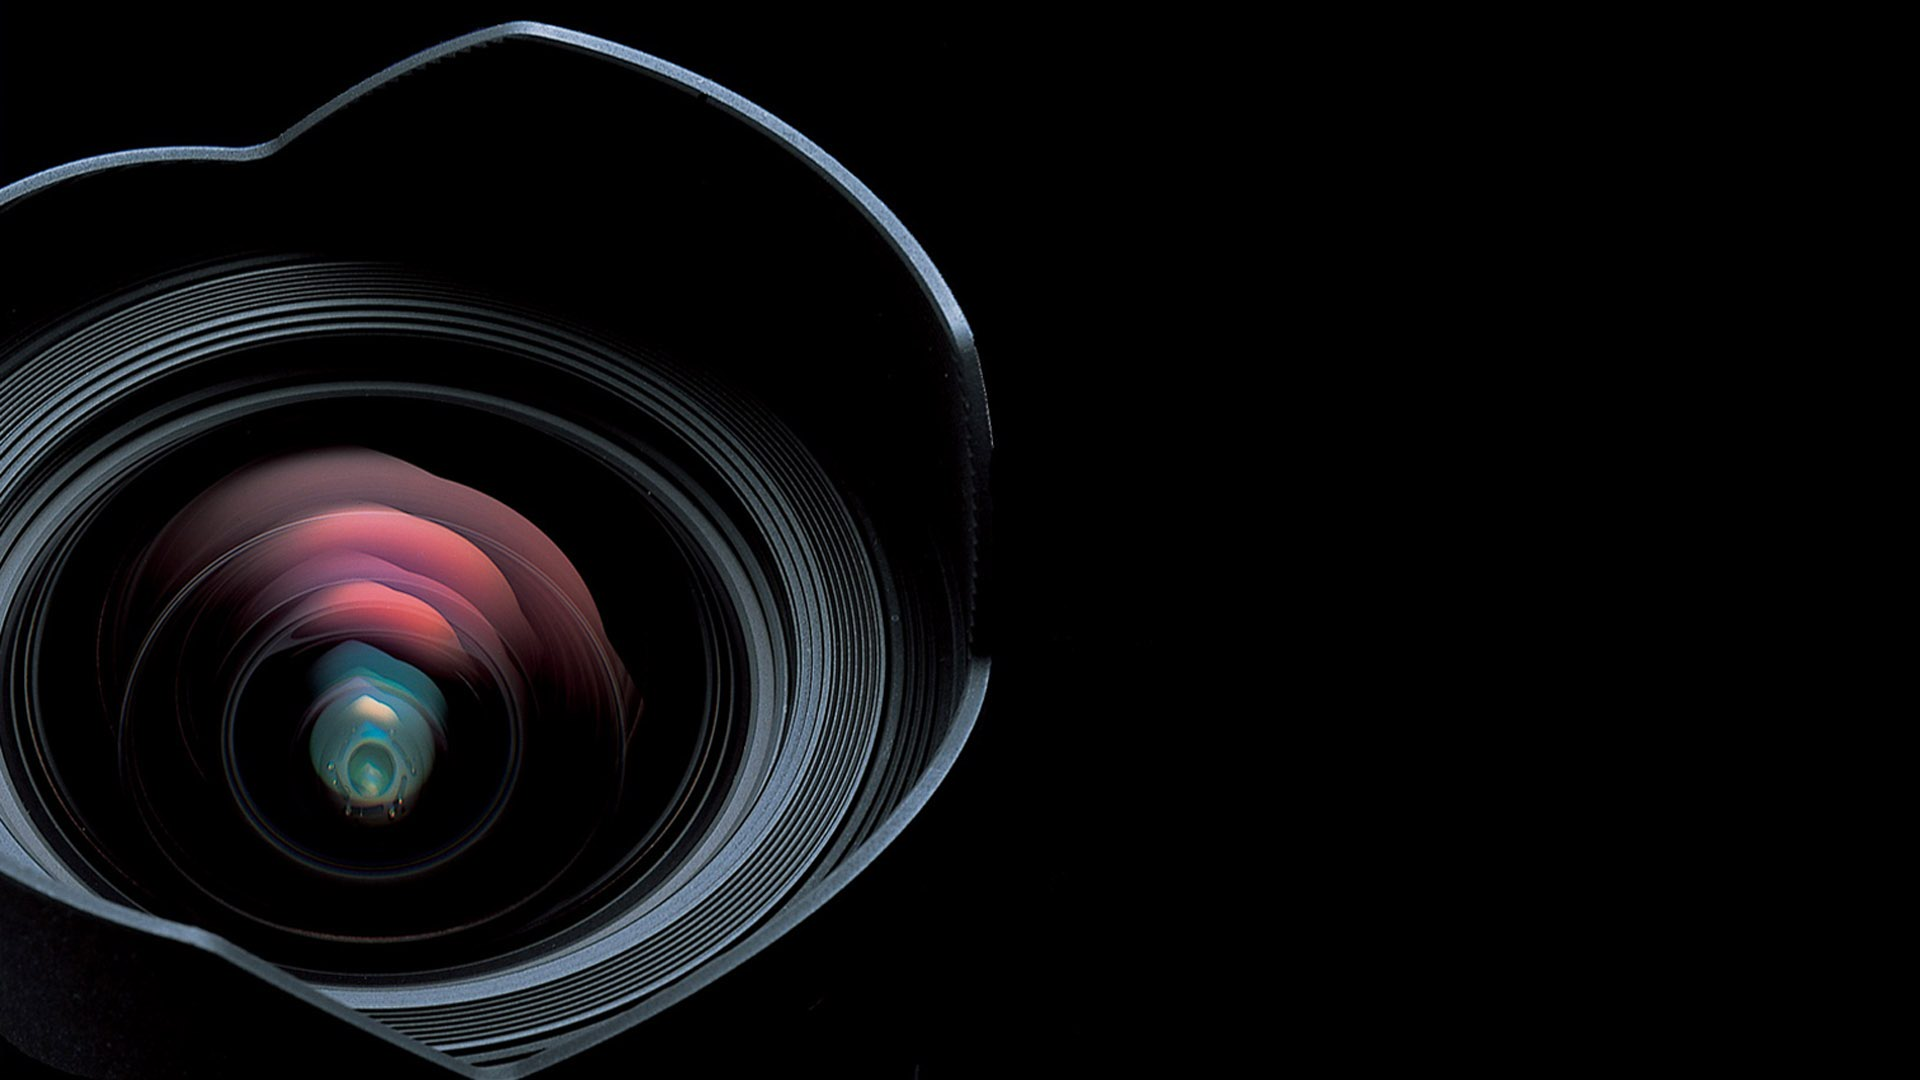
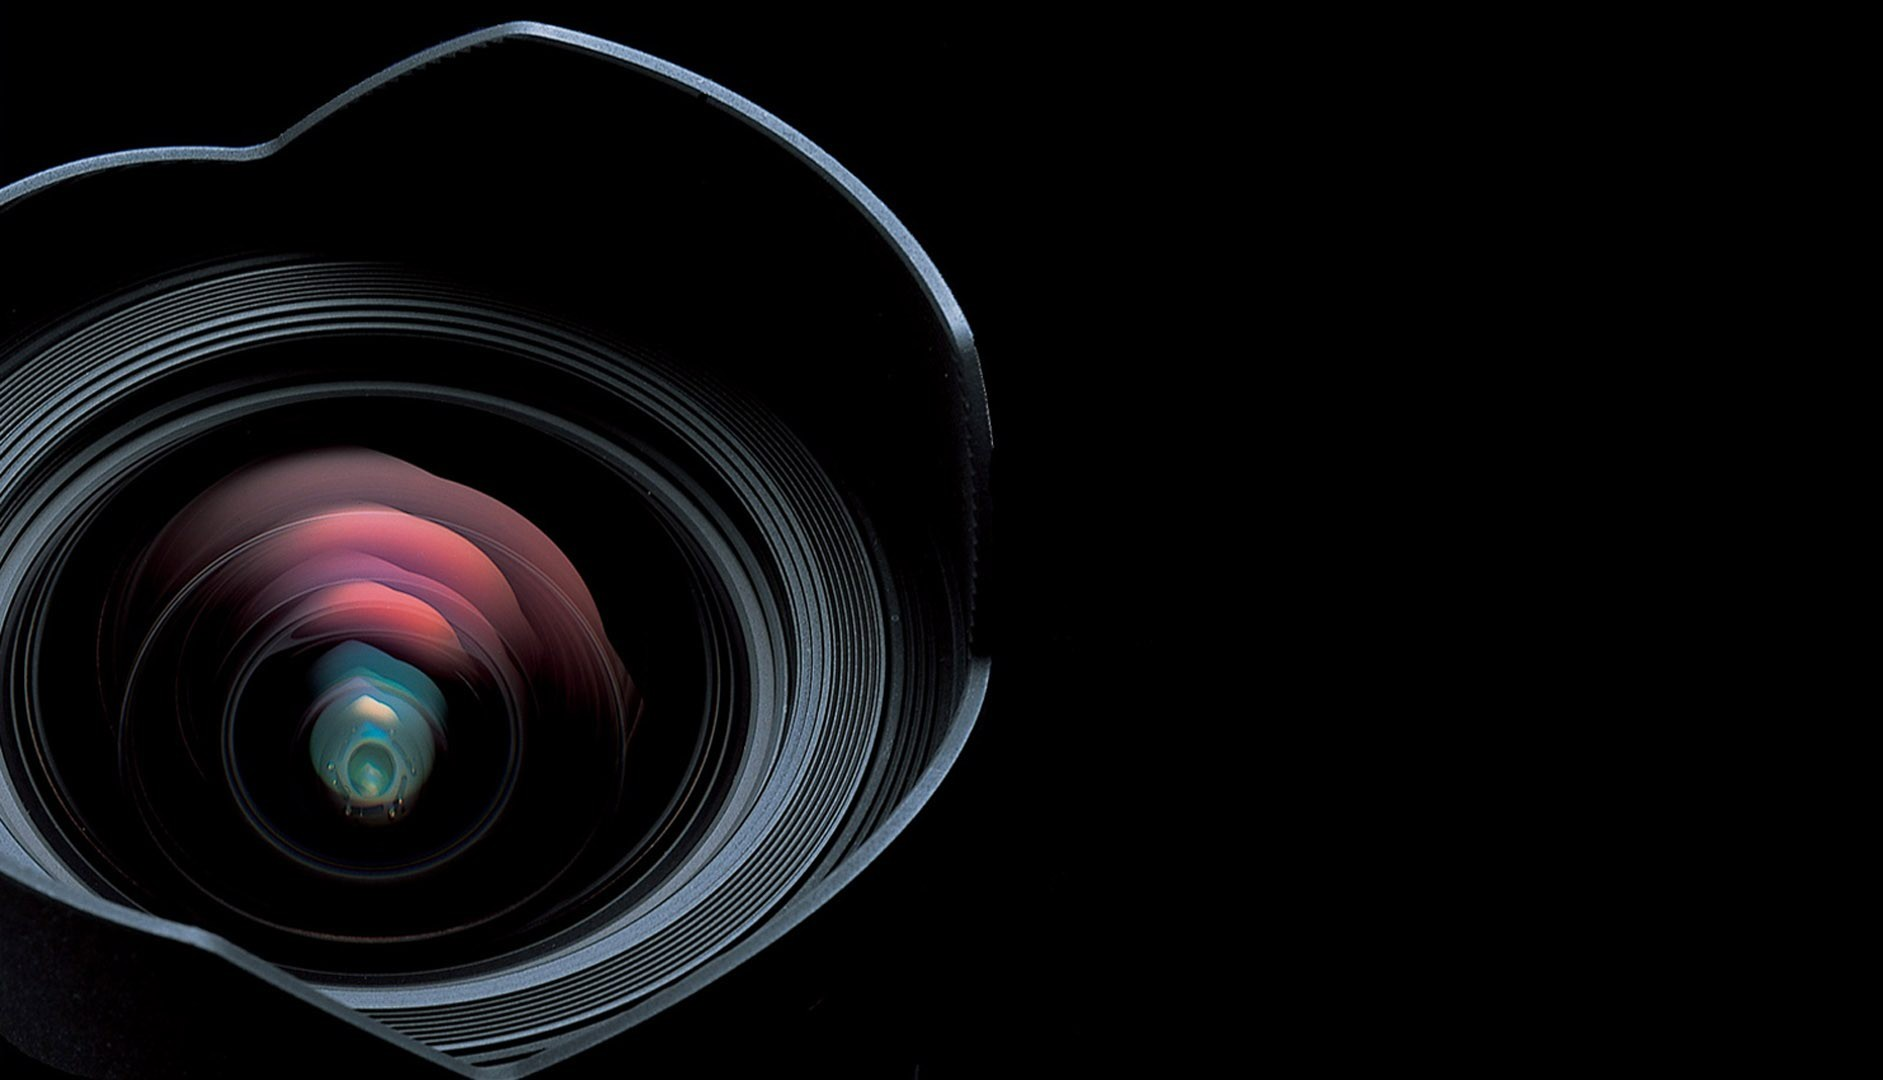
Add the contact page

diff --git a/contacto.html b/contacto.html
@@ -16,7 +16,7 @@
 </head>
 <body>
   <header>
-  <img src="/images/background90.jpg" style = "position: relative; width: 100%;">
+    <img src="images/background90.jpg" style = "position: relative; width: 100%;">
       <div class="hamburger-icon" id="icon">
         <div class="icon-1" id="a"></div>
         <div class="icon-2" id="b"></div>
@@ -37,9 +37,16 @@
       <div class="dark-blue" id="blue"></div>
   </header>
   <section class="content" id="content-footer"> 
+    <div class="container-estamos">
       <p>Estamos muy agradecidos por tu contacto y 
         apreciamos que estés en nuestro sitio web, 
         será genial conocer tu proyecto y trabajar juntos!</p>
+        <ul>
+          <li><b>Teléfono:</b> 1122334455</li>
+          <li><b>Email:</b> Ninety9@gmail.com</li>
+          <li><b>Ubicación:</b> Buenos Aires, Argentina</li>
+        </ul>
+    </div>
         <div id="container-form">
           <h2>Contacto</h2>
           <input type="text" placeholder="Nombre y apellido">

diff --git a/sass/styles.css b/sass/styles.css
@@ -330,9 +330,37 @@ nav.show {
   -webkit-box-sizing: border-box;
           box-sizing: border-box;
   font-size: 19px;
+  background: #161616;
+  border: 1px solid #ffffff;
 }
 
 #container-form button {
   font-size: 19px;
+  background: #161616;
+  border: 1px solid #ffffff;
+  color: #ffffff;
+}
+
+.container-estamos {
+  text-align: justify;
+}
+
+.container-estamos li {
+  text-decoration: none;
+  list-style: none;
+}
+
+.container-estamos ul {
+  display: -webkit-box;
+  display: -ms-flexbox;
+  display: flex;
+  -webkit-box-orient: vertical;
+  -webkit-box-direction: normal;
+      -ms-flex-direction: column;
+          flex-direction: column;
+  text-align: left;
+  font-size: 25px;
+  color: white;
+  padding: 0;
 }
 /*# sourceMappingURL=styles.css.map */

diff --git a/sass/styles.scss b/sass/styles.scss
@@ -250,11 +250,32 @@ nav {
     padding: 7px;
     box-sizing: border-box;
     font-size: 19px;
+    background: #161616;
+    border: 1px solid #ffffff;
   }
 
   button{
     font-size: 19px;
+    background: #161616;
+    border: 1px solid #ffffff;
+    color: #ffffff;
   }
 }
 
+.container-estamos{
+  text-align: justify;
 
+  li{
+    text-decoration: none;
+    list-style: none;
+  }
+}
+
+.container-estamos ul{
+  display: flex;
+  flex-direction: column;
+  text-align: left;
+  font-size: 25px;
+  color: white;
+  padding: 0;
+}

diff --git a/index.html b/index.html
@@ -16,7 +16,7 @@
 </head>
 <body>
   <header>
-  <img src="/images/background90.jpg" style = "position: relative; width: 100%;">
+  <img src="images/background90.jpg" style = "position: relative; width: 100%;">
       <div class="hamburger-icon" id="icon">
         <div class="icon-1" id="a"></div>
         <div class="icon-2" id="b"></div>
